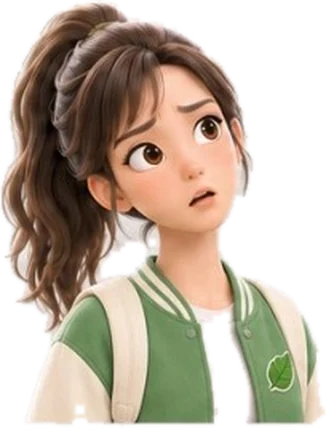
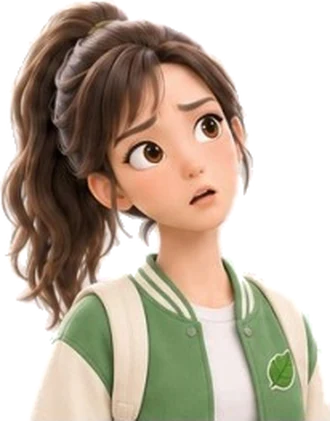
영상 칸 캐릭터 배경 다시 지움: 흰 테두리·머리카락 사이 흰 배경 없앰
- 배경 후보를 배경색·색감이 같은 칸으로 좁히고, 머리·목 높이에 갇힌 배경 덩어리도 지움(흰 티셔츠는 위치로 남김)
- 경계 2px는 반투명 처리 후 섞인 배경색을 빼서 흰 테두리 제거, 시트 맨 아래 배경 띠는 잘라 냄
- 그림 크기 바뀜(330×421, 314×422)에 맞춰 width·height, 그림 주소에 ?v=20261114b

diff --git a/index.html b/index.html
@@ -133,7 +133,7 @@
       <div class="video-grid">
         <article class="video-card ep-1">
           <div class="video-frame" data-video-index="0">
-            <img class="video-char" src="img/video-ep1.webp" alt="" width="326" height="437" loading="lazy">
+            <img class="video-char" src="img/video-ep1.webp?v=20261114b" alt="" width="330" height="421" loading="lazy">
             <span class="video-ep" data-i18n="video.ep1.label">1편 · 기초편</span>
             <div class="video-placeholder">
               <span class="video-soon" data-i18n="video.placeholder">영상 준비 중</span>
@@ -146,7 +146,7 @@
         </article>
         <article class="video-card ep-2">
           <div class="video-frame" data-video-index="1">
-            <img class="video-char" src="img/video-ep2.webp" alt="" width="314" height="438" loading="lazy">
+            <img class="video-char" src="img/video-ep2.webp?v=20261114b" alt="" width="314" height="422" loading="lazy">
             <span class="video-ep" data-i18n="video.ep2.label">2편 · 실전편</span>
             <div class="video-placeholder">
               <span class="video-soon" data-i18n="video.placeholder">영상 준비 중</span>
